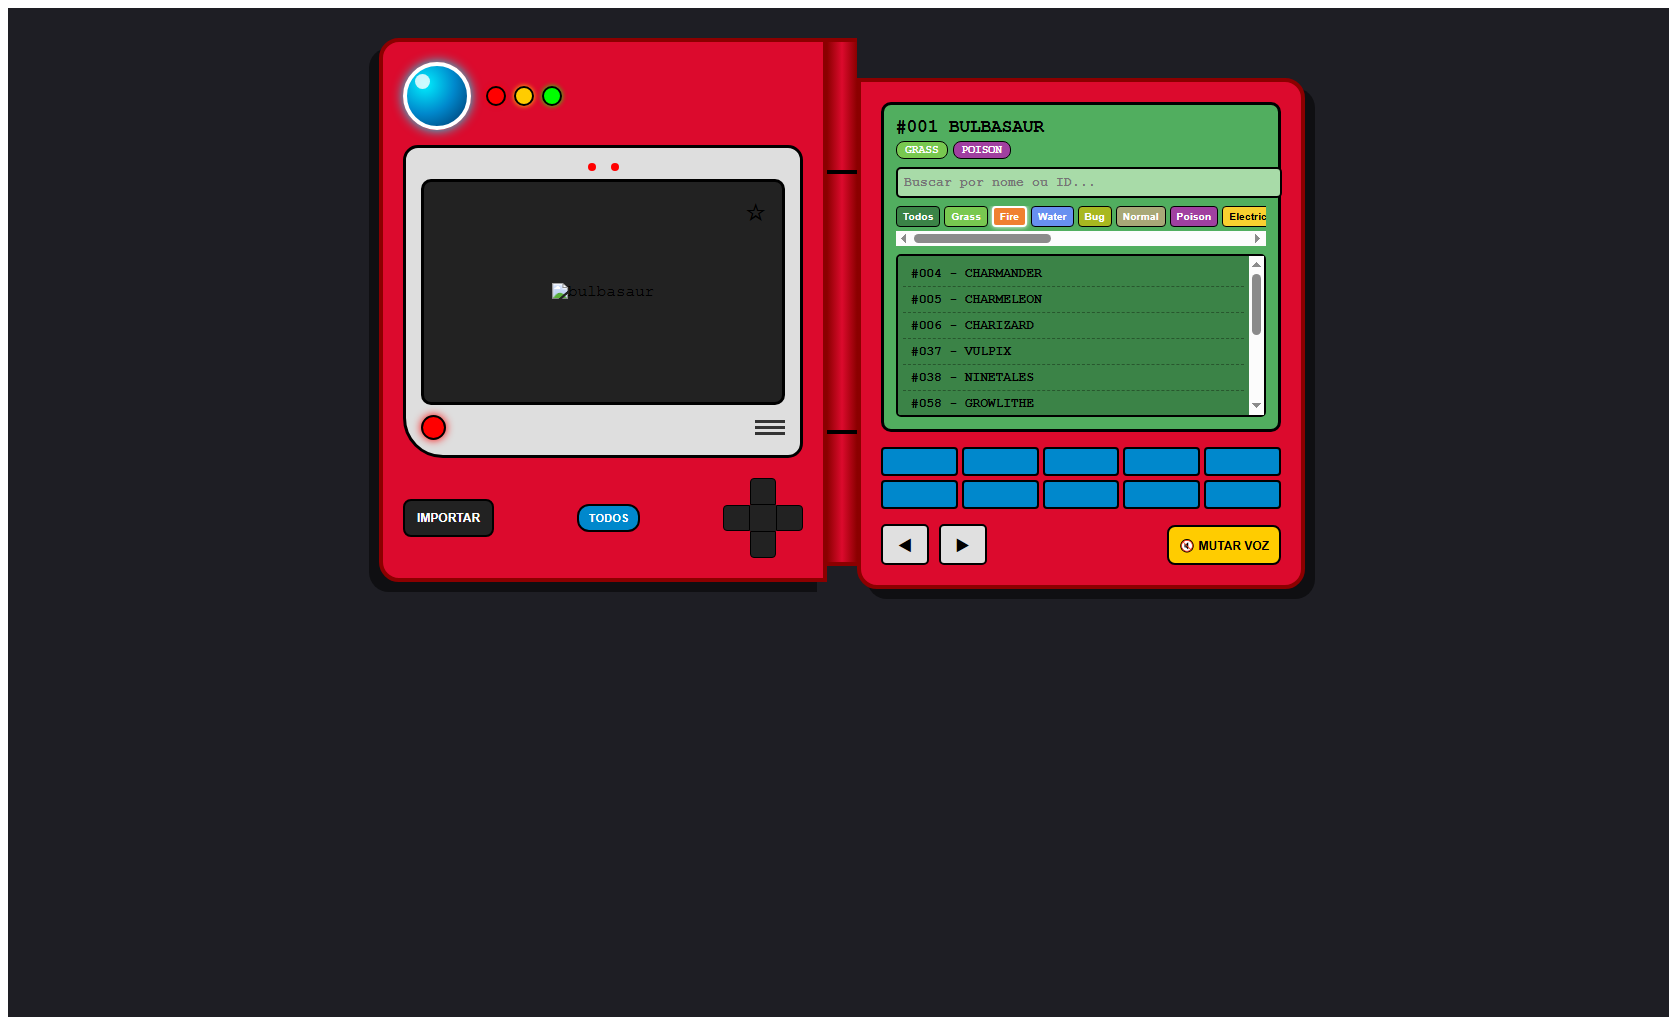
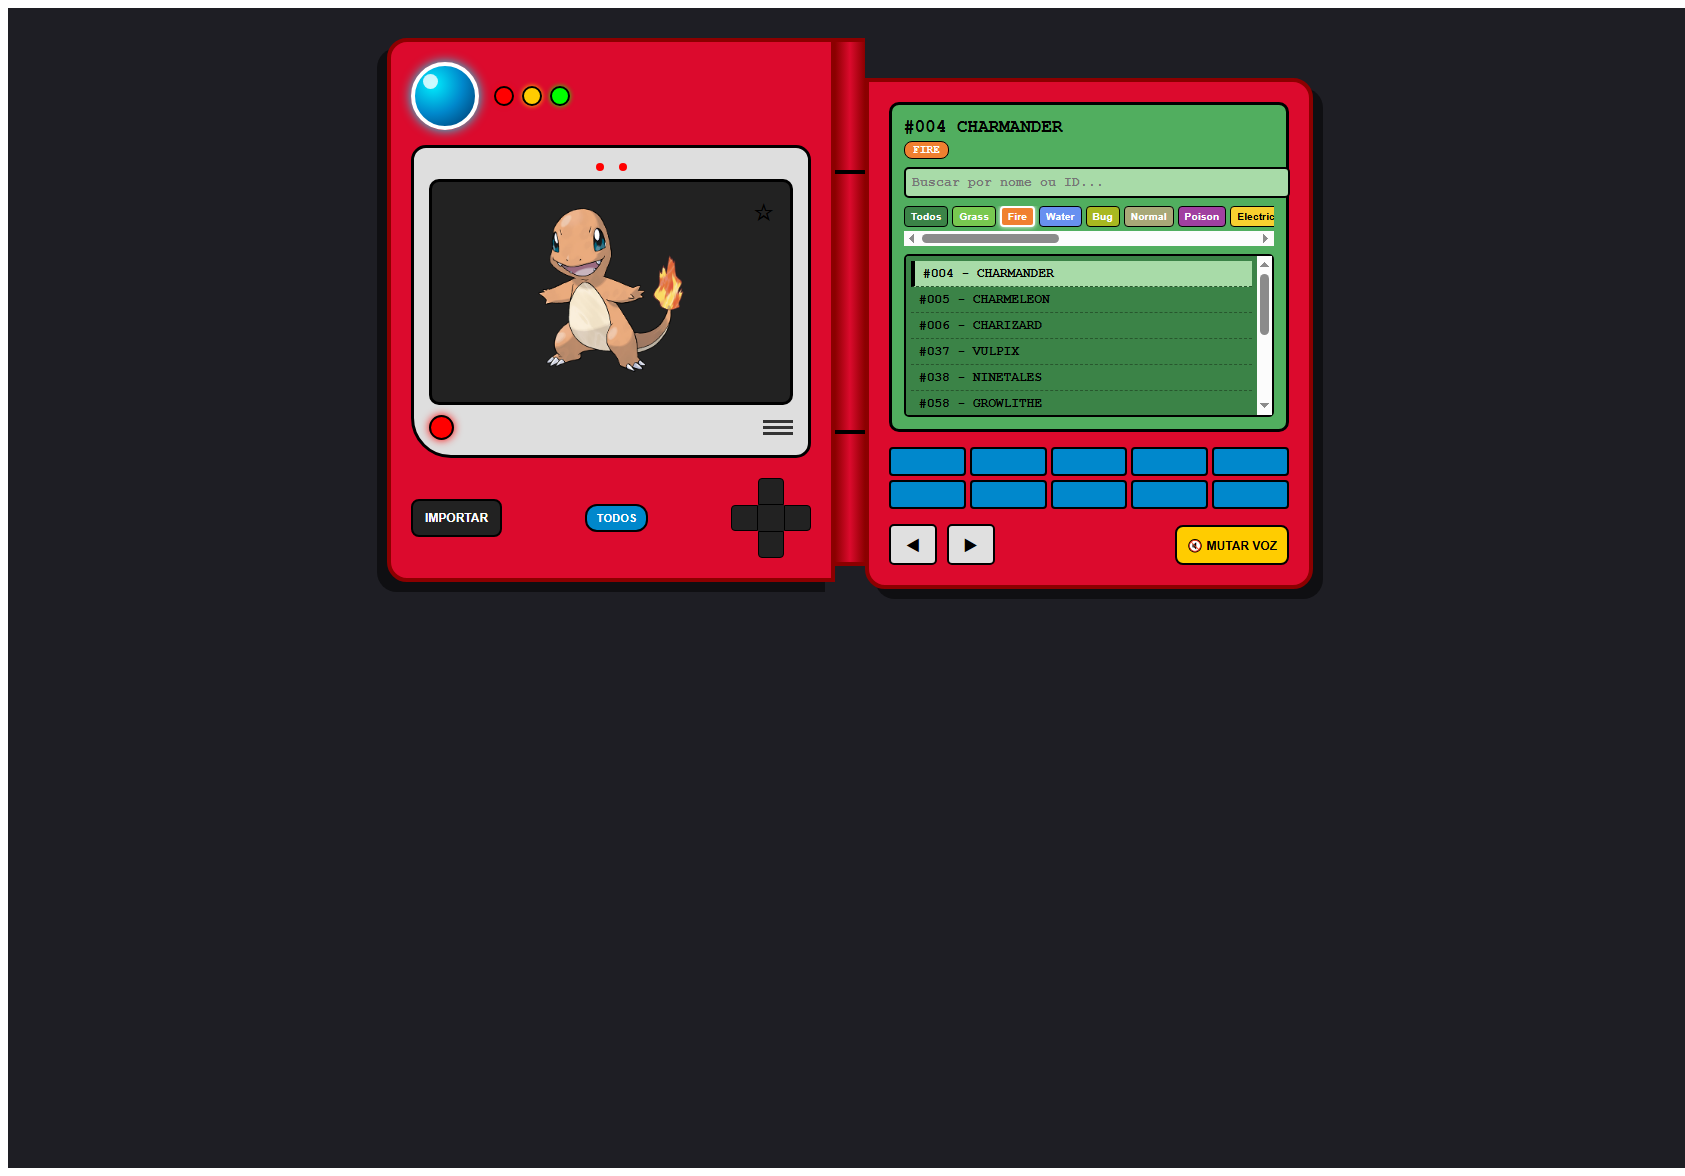
docs: refresh screenshots with Pokemon artwork

Changed region(s): [[0.2181, 0.0312, 0.7789, 0.5932]]

diff --git a/README.md b/README.md
@@ -14,7 +14,7 @@ Como a aplicação funciona em uma única tela, as capturas abaixo mostram difer
 | --- | --- |
 | ![Lista filtrada por Pokémon do tipo fogo](./docs/screenshots/filtro-por-tipo.png) | ![Pokédex exibindo somente os favoritos](./docs/screenshots/favoritos.png) |
 
-As ilustrações dos Pokémon são carregadas de URLs externas da PokéAPI. Elas podem não aparecer nas capturas feitas em ambientes sem acesso à internet.
+Na aplicação, as ilustrações dos Pokémon são carregadas de URLs externas da PokéAPI e exigem acesso à internet. As capturas deste README incluem as artes para exibição direta no GitHub.
 
 ## Funcionalidades
 
